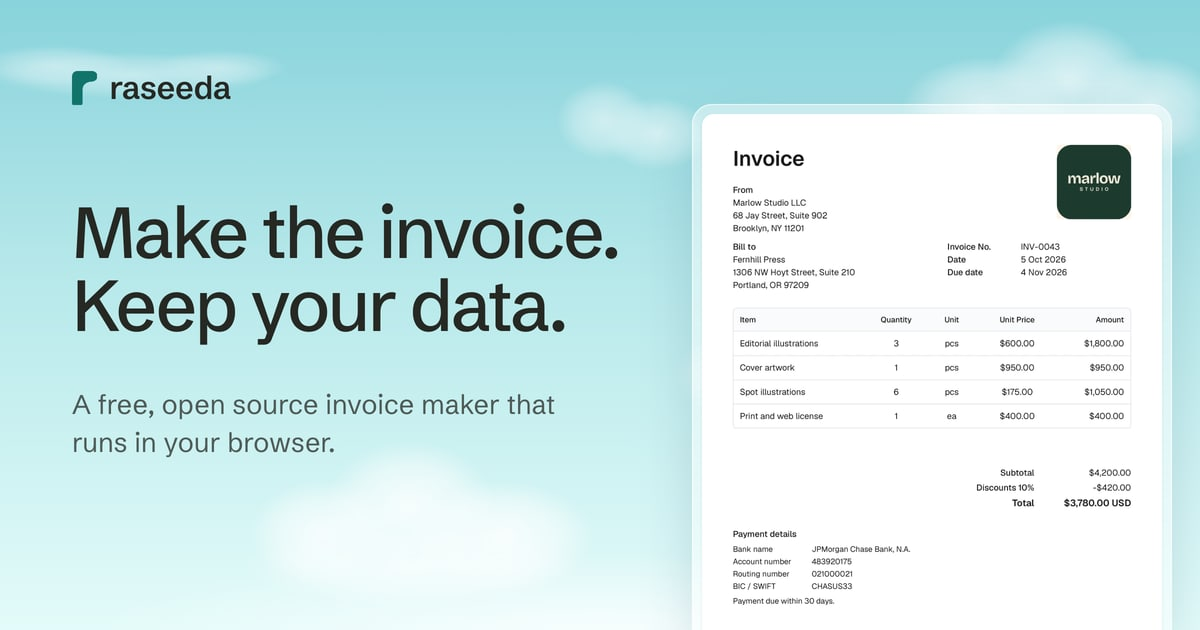
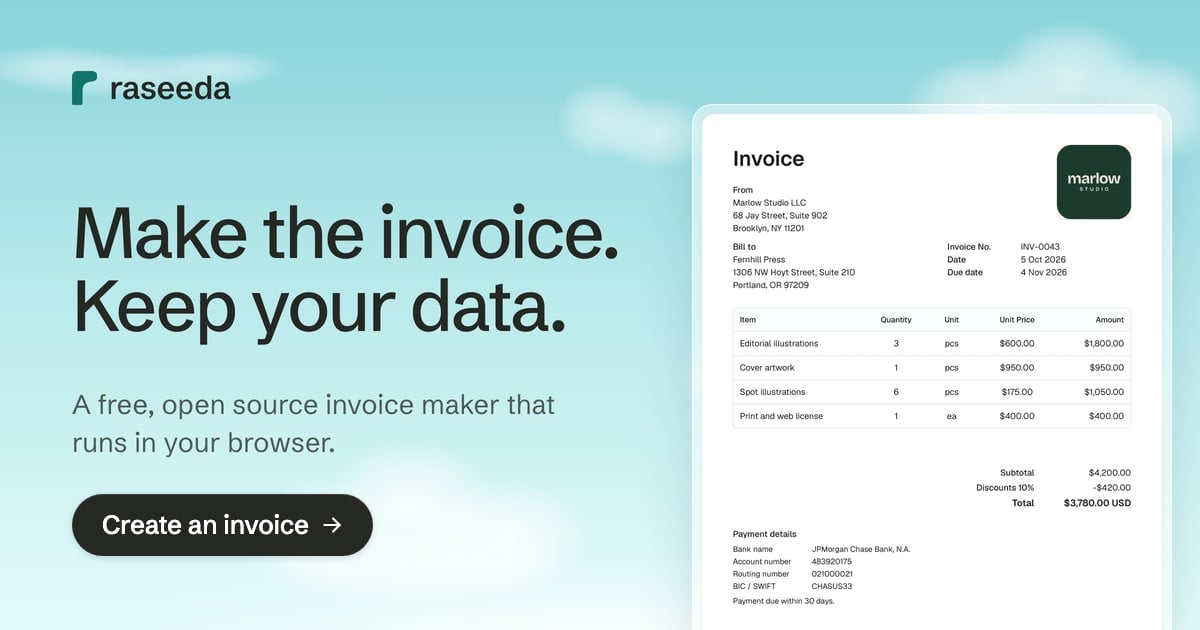
Add a call to action to the share card

Changed region(s): [[0.0617, 0.7841, 0.3083, 0.9048]]

diff --git a/utils/site-meta.ts b/utils/site-meta.ts
@@ -10,7 +10,7 @@ export const SITE_HOST = new URL(SITE_URL).host;
 export const SITE_TITLE = `Free Invoice Generator: No Sign-Up, Private PDF | ${APP_NAME}`;
 
 export const SITE_DESCRIPTION =
-  "Free invoice generator that runs in your browser. Add your details, download a PDF, send it. No account, and your invoices never leave your device.";
+  "Free invoice generator that runs in your browser. Download a PDF with no account; your invoices never leave your device.";
 
 export const SITE_OG_IMAGE = `${SITE_URL}/og-image.jpg`;
 
@@ -24,7 +24,7 @@ export const MAKER_PERSON_NAME = "Ikraam";
 
 export const MAKER_URL = "https://github.com/ikraamdaanis";
 
-const SITE_OG_IMAGE_ALT = `${APP_NAME}: Make the invoice. Keep your data. A finished invoice on a pale blue sky.`;
+const SITE_OG_IMAGE_ALT = `${APP_NAME}: Make the invoice. Keep your data. A "Create an invoice" button beside a finished invoice on a pale blue sky.`;
 
 // The language and region the copy is written in: English, with British
 // spelling.
@@ -37,7 +37,8 @@ const INDEXABLE_ROBOTS = "max-image-preview:large";
 // Each page's title, description and share card. The editor is left out of
 // search results: the homepage is the page for making an invoice, and the
 // editor's HTML is a loading screen until it runs. Every share image is
-// 1200 x 630.
+// 1200 x 630, and every description fits in the 125 characters a share
+// preview shows before cutting it off.
 export const PAGE_META = {
   home: {
     path: "/",
@@ -48,7 +49,7 @@ export const PAGE_META = {
     path: "/invoice-template",
     title: `Free Invoice Templates: Fill In Online, Download PDF | ${APP_NAME}`,
     description:
-      "Free invoice templates for freelancers, consultants, contractors, photographers and small businesses. Pick a style, fill it in online, download a PDF.",
+      "Free invoice templates for freelancers, consultants, contractors and small businesses. Fill one in online, download a PDF.",
     image: `${SITE_URL}/og-invoice-template.jpg`,
     imageAlt: `Six ${APP_NAME} invoice templates: freelance, consulting, small business, contractor, photography and web development`
   },
@@ -56,13 +57,13 @@ export const PAGE_META = {
     path: "/create",
     title: `Create an Invoice Online, Free PDF | ${APP_NAME}`,
     description:
-      "Fill in your details, your client and the line items, then download the invoice as a PDF. Free, with no account, and it all stays in this browser.",
+      "Fill in your details, your client and the line items, then download a PDF. Free, no account, and it stays in this browser.",
     robots: "noindex"
   },
   privacy: {
     path: "/privacy",
     title: `Privacy: Your Invoices Stay on Your Device | ${APP_NAME}`,
-    description: `${APP_NAME} keeps your invoices in your browser, on your device, and never uploads them. What is stored, where, and what the site's host can see.`
+    description: `${APP_NAME} keeps your invoices on your device and never uploads them. What is stored, where, and what the site's host can see.`
   }
 };
 

diff --git a/utils/site-meta.test.ts b/utils/site-meta.test.ts
@@ -79,8 +79,8 @@ describe("siteMeta", () => {
     expect(findByName("twitter:image")?.content).toMatch(/^https:\/\//);
   });
 
-  it("keeps the description short enough not to be cut off in results", () => {
-    expect(SITE_DESCRIPTION.length).toBeLessThanOrEqual(160);
+  it("keeps the description short enough not to be cut off in previews", () => {
+    expect(SITE_DESCRIPTION.length).toBeLessThanOrEqual(125);
   });
 
   it("points og:url at the page it describes", () => {
@@ -127,7 +127,7 @@ describe("PAGE_META", () => {
 
   it("keeps every description short enough not to be cut off", () => {
     for (const page of pages) {
-      expect(page.description.length).toBeLessThanOrEqual(155);
+      expect(page.description.length).toBeLessThanOrEqual(125);
     }
   });
 
